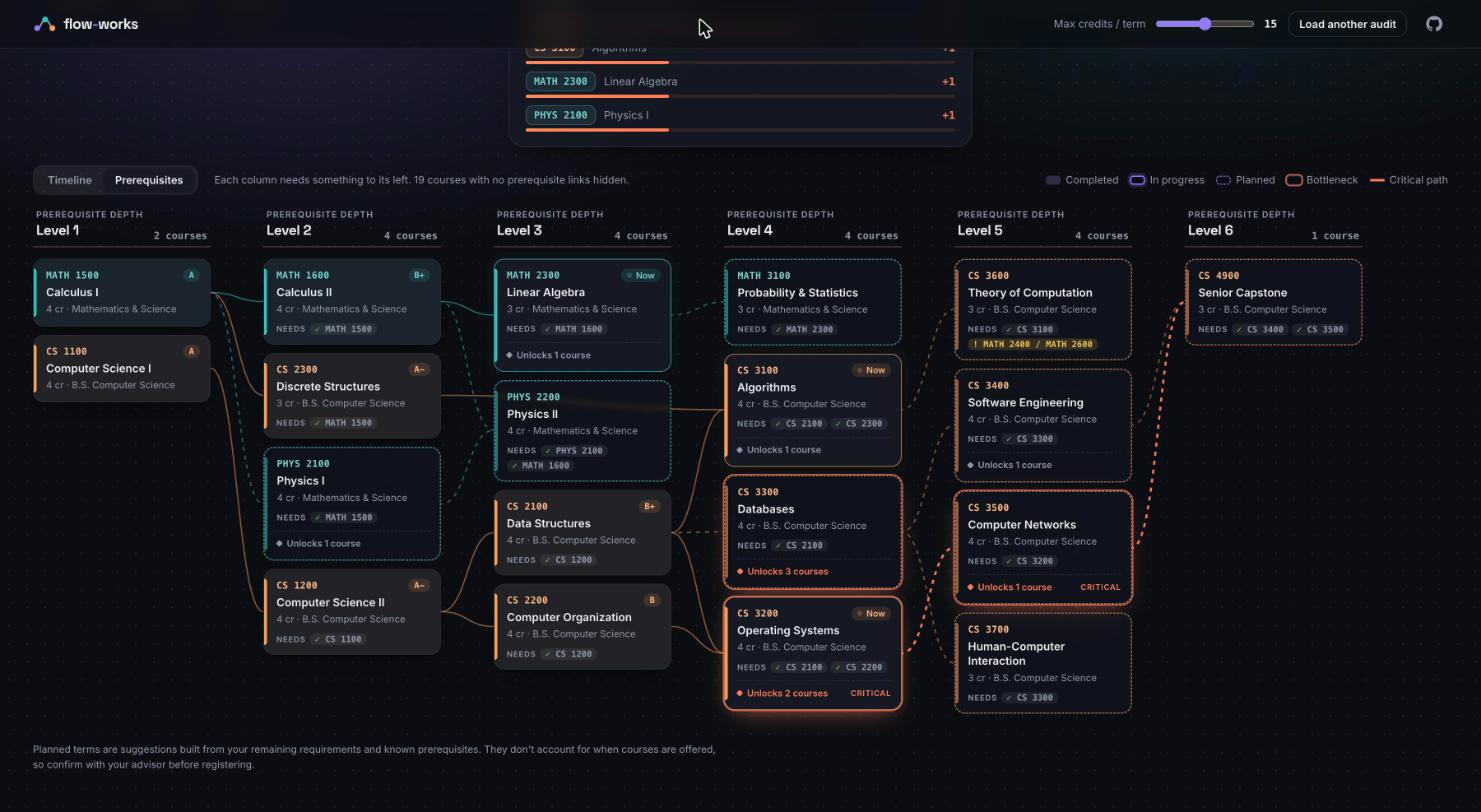
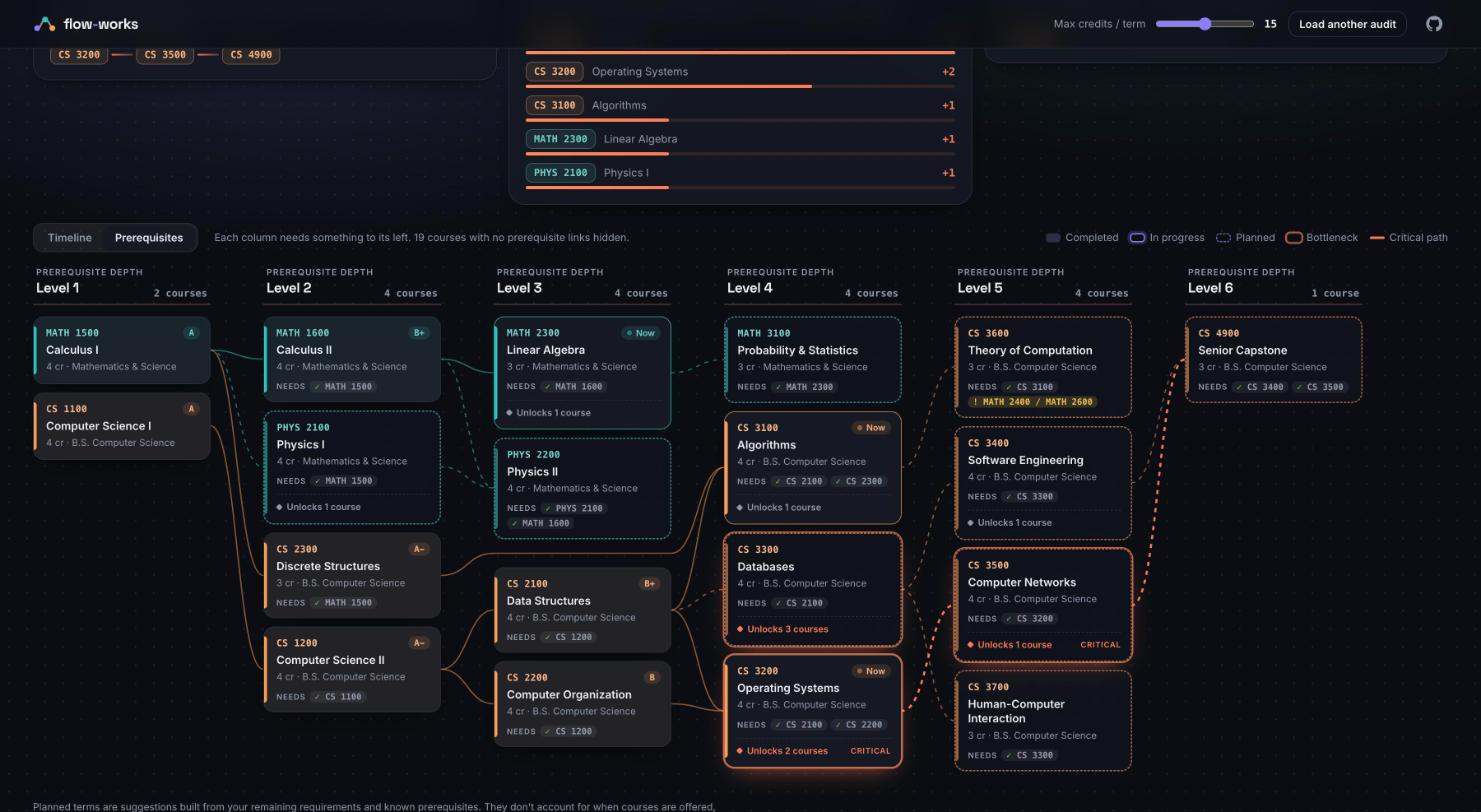
Route prerequisite lines through gaps instead of under cards
Long links get a via slot in every column they cross; curves bend only in
the gutters; cards and slots are barycenter-ordered to cut crossings.
Adds the prerequisite-graph view, bottleneck/critical-path insights,
per-card prerequisites, and critical-path-first planning.

diff --git a/app.js b/app.js
@@ -1,4 +1,4 @@
-import { parseAudit, columns, analyze, layers } from './model.js';
+import { parseAudit, columns, analyze, layers, route } from './model.js';
 
 const $ = s => document.querySelector(s);
 const reduce = matchMedia('(prefers-reduced-motion: reduce)').matches;
@@ -183,15 +183,23 @@ function board(first) {
   const cols = graph
     ? layers(A).map((items, i) => ({ label: `Level ${i + 1}`, kind: 'layer', items, note: plural(items.length, 'course') }))
     : terms.map(c => ({ ...c, note: `${c.credits} cr` }));
+  const R = route(cols.map(c => c.items), A.edges), feeds = new Set(A.edges.map(e => e.from));
   const crit = new Set(A.critical), critLinks = new Set(A.critical.slice(1).map((k, i) => A.critical[i] + '>' + k));
   const shown = cols.reduce((n, c) => n + c.items.length, 0), all = terms.reduce((n, c) => n + c.items.length, 0);
   $('#viewnote').textContent = graph
     ? `Each column needs something to its left. ${all - shown ? plural(all - shown, 'course') + ' with no prerequisite links hidden.' : ''}`
     : 'Hover a course to trace its prerequisites · click for details · drag to pan';
 
-  const colEls = cols.map((c, ci) => h('section', { class: `col ${c.kind}${c.items.length > 8 ? ' wide' : ''}` },
-    h('header', {}, h('span', { class: 'kind' }, KIND[c.kind]), h('h2', {}, c.label || '—'), h('span', { class: 'cr' }, c.note)),
-    ...c.items.map(it => card(it, ci, crit))));
+  const node = ci => x => (x.via ? h('i', { class: 'via', 'data-via': x.key }) : card(x, ci, crit));
+  const colEls = cols.map((c, ci) => {
+    const head = h('header', {}, h('span', { class: 'kind' }, KIND[c.kind]), h('h2', {}, c.label || '—'), h('span', { class: 'cr' }, c.note));
+    const entries = R.cols[ci];
+    // A long first column splits in two; courses that feed later ones go on the right so their lines cross no card.
+    if (ci === 0 && entries.length > 8) return h('section', { class: `col ${c.kind} wide` }, head,
+      h('div', { class: 'stack' }, entries.filter(x => !feeds.has(x.key)).map(node(ci))),
+      h('div', { class: 'stack' }, entries.filter(x => feeds.has(x.key)).map(node(ci))));
+    return h('section', { class: `col ${c.kind}` }, head, ...entries.map(node(ci)));
+  });
   const tail = [];
   if (!graph) {
     const cap = h('div', { class: 'cap', 'data-key': 'grad' }, h('div', { class: 'medal', 'aria-hidden': 'true' }), h('strong', {}, 'Graduate'), h('span', {}, grad));
@@ -200,11 +208,11 @@ function board(first) {
   } else if (!cols.length) tail.push(h('p', { class: 'empty' }, 'This audit came without prerequisite data, so there are no links to draw. Use the bookmarklet to include them.'));
   track.replaceChildren(svg('svg', { class: 'edges', 'aria-hidden': 'true' }), ...colEls, ...tail);
 
-  edges = A.edges.map(e => ({
-    ...e, group: A.byKey[e.to].group,
+  edges = A.edges.map((e, i) => ({
+    ...e, path: R.paths[i], group: A.byKey[e.to].group,
     cls: [A.byKey[e.to].status === 'planned' && 'planned', critLinks.has(e.from + '>' + e.to) && 'crit'].filter(Boolean).join(' '),
   }));
-  if (!graph) for (const it of terms.at(-1)?.items || []) edges.push({ from: it.key, to: 'grad', group: it.group, cls: 'tograd' });
+  if (!graph) for (const it of terms.at(-1)?.items || []) edges.push({ from: it.key, to: 'grad', path: [it.key, 'grad'], group: it.group, cls: 'tograd' });
 
   let last = 0;
   if (!reduce) for (const el of track.querySelectorAll('[data-key]')) {
@@ -233,14 +241,23 @@ function drawEdges(delay) {
   drawn = track.scrollWidth + 'x' + track.scrollHeight;
   lines.setAttribute('width', track.scrollWidth);
   lines.setAttribute('height', track.scrollHeight);
-  const el = k => track.querySelector(`[data-key="${CSS.escape(k)}"]`);
+  const el = k => track.querySelector(`[data-key="${CSS.escape(k)}"], [data-via="${CSS.escape(k)}"]`);
   lines.replaceChildren(...edges.map((e, i) => {
-    const a = el(e.from), b = el(e.to);
-    if (!a || !b) return '';
-    const ax = a.offsetLeft + a.offsetWidth, ay = a.offsetTop + a.offsetHeight / 2;
-    const bx = b.offsetLeft, by = b.offsetTop + (e.to === 'grad' ? 60 : b.offsetHeight / 2);
-    const dx = Math.max(28, (bx - ax) / 2);
-    const p = svg('path', { d: `M${ax},${ay} C${ax + dx},${ay} ${bx - dx},${by} ${bx},${by}`, class: e.cls, style: `--c:${color(e.group)}` });
+    const nodes = e.path.map(el);
+    if (nodes.some(n => !n)) return '';
+    // Curves bend only in the gutters between columns; inside a column the line runs straight through its via gap.
+    const [a, ...rest] = nodes, b = rest.pop();
+    let x = a.offsetLeft + a.offsetWidth, y = a.offsetTop + a.offsetHeight / 2, d = `M${x},${y}`;
+    const to = (x2, y2) => { const dx = (x2 - x) / 2; d += ` C${x + dx},${y} ${x2 - dx},${y2} ${x2},${y2}`; };
+    for (const v of rest) {
+      const vy = v.offsetTop + v.offsetHeight / 2;
+      to(v.offsetLeft, vy);
+      x = v.offsetLeft + v.offsetWidth;
+      y = vy;
+      d += ` L${x},${y}`;
+    }
+    to(b.offsetLeft, b.offsetTop + (e.to === 'grad' ? 60 : b.offsetHeight / 2));
+    const p = svg('path', { d, class: e.cls, style: `--c:${color(e.group)}` });
     p.dataset.from = e.from;
     p.dataset.to = e.to;
     if (delay != null && !reduce) {

diff --git a/model.js b/model.js
@@ -189,20 +189,38 @@ export function analyze(cols) {
   return { edges, needs, missing, info, necks, critical: critical.length > 1 ? critical : [], byKey };
 }
 
-// Layered layout for the prerequisite view: column = longest prereq chain above a course,
-// rows ordered by a few barycenter sweeps to cut line crossings. Courses with no links are left out.
-// ponytail: long edges aren't routed around cards (no dummy nodes); add them if crossings get unreadable.
+// Prerequisite view columns: column = longest prereq chain above a course. Courses with no links are left out.
 export function layers(a) {
-  const up = {}, down = {}, lv = {}, pos = {}, cols = [];
-  for (const e of a.edges) { (up[e.to] ||= []).push(e.from); (down[e.from] ||= []).push(e.to); }
+  const up = {}, lv = {}, cols = [], linked = new Set();
+  for (const e of a.edges) { (up[e.to] ||= []).push(e.from); linked.add(e.from).add(e.to); }
   const L = k => (lv[k] ??= up[k] ? 1 + Math.max(...up[k].map(L)) : 0);
-  for (const k of Object.keys(a.byKey)) if (up[k] || down[k]) (cols[L(k)] ||= []).push(k);
-  const place = c => c.forEach((k, i) => (pos[k] = i));
+  for (const k of Object.keys(a.byKey)) if (linked.has(k)) (cols[L(k)] ||= []).push(a.byKey[k]);
+  return cols;
+}
+
+// Edge routing: a link that spans several columns gets a "via" slot in every column it crosses, so lines
+// run through gaps between cards instead of under them. Cards and slots are then ordered by barycenter
+// sweeps to cut crossings. Returns per-column entries (items or { key, via: true }) and each edge's key path.
+export function route(cols, edges) {
+  const at = {}, out = cols.map(c => [...c]), up = {}, down = {}, pos = {};
+  cols.forEach((c, ci) => c.forEach(it => (at[it.key] = ci)));
+  const paths = edges.map((e, ei) => {
+    const path = [e.from];
+    for (let ci = at[e.from] + 1; ci < at[e.to]; ci++) {
+      const key = `via${ei}:${ci}`;
+      out[ci].push({ key, via: true });
+      path.push(key);
+    }
+    path.push(e.to);
+    for (let i = 1; i < path.length; i++) { (up[path[i]] ||= []).push(path[i - 1]); (down[path[i - 1]] ||= []).push(path[i]); }
+    return path;
+  });
+  const place = c => c.forEach((x, i) => (pos[x.key] = i));
   const bary = (k, nb) => (nb[k] ? nb[k].reduce((s, n) => s + pos[n], 0) / nb[k].length : pos[k]);
-  cols.forEach(place);
+  out.forEach(place);
   for (let pass = 0; pass < 6; pass++) {
     const nb = pass % 2 ? down : up;
-    for (const c of pass % 2 ? [...cols].reverse() : cols) { c.sort((x, y) => bary(x, nb) - bary(y, nb)); place(c); }
+    for (const c of pass % 2 ? [...out].reverse() : out) { c.sort((x, y) => bary(x.key, nb) - bary(y.key, nb)); place(c); }
   }
-  return cols.map(c => c.map(k => a.byKey[k]));
+  return { cols: out, paths };
 }

diff --git a/style.css b/style.css
@@ -200,6 +200,8 @@ code { font: .88em var(--mono); background: color-mix(in oklab, var(--ink) 7%, t
 
 .col { display: grid; grid-template-columns: 216px; gap: 10px; align-content: start; }
 .col.wide { grid-template-columns: repeat(2, 216px); }
+.stack { display: grid; gap: 10px; align-content: start; }
+.via { display: block; height: 14px; }
 .col > header { grid-column: 1 / -1; display: grid; grid-template-columns: 1fr auto; align-items: end; padding: 0 4px 6px; border-bottom: 1px solid var(--line); margin-bottom: 4px; }
 .col h2 { font-size: 17px; grid-column: 1; }
 .col .kind { grid-column: 1 / -1; font: 600 10.5px var(--sans); letter-spacing: .09em; text-transform: uppercase; color: var(--muted); }

diff --git a/README.md b/README.md
@@ -24,7 +24,7 @@ Both views share three insights:
 - **Bottlenecks:** unfinished courses ranked by how many later courses depend on them.
 - **Check with your advisor:** prerequisites that aren't on your record or in the plan.
 
-Hover a course to trace its whole chain. Click a course for details. Drag the max-credits slider and the plan re-flows with animation.
+Lines never pass under a card: a line that spans several columns gets a reserved gap in each column it crosses, and cards are re-ordered to cut crossings. Hover a course to trace its whole chain. Click a course for details. Drag the max-credits slider and the plan re-flows with animation.
 
 ## Use it
 
@@ -39,7 +39,7 @@ The bookmarklet reads the audit you're already viewing (same site, your own sess
 - Nothing is uploaded. The data travels in the `#fragment`, which browsers never send to servers, and the page itself is static files on GitHub Pages.
 - Your student ID and email are removed before the data leaves the Degree Works tab.
 - The audit stays in your browser's `localStorage` until you click **Load another audit**.
-- It's about 650 lines of plain JavaScript with no dependencies, so you can read all of it.
+- It's about 700 lines of plain JavaScript with no dependencies, so you can read all of it.
 
 ## Does it work with my school?
 
@@ -66,7 +66,7 @@ node test.mjs                 # parser, planner and prerequisite analysis checks
 
 | File | What it does |
 | --- | --- |
-| `model.js` | Pure functions: audit JSON → model, the planner, prerequisite analysis, graph layout |
+| `model.js` | Pure functions: audit JSON → model, the planner, prerequisite analysis, graph layout, edge routing |
 | `app.js` | Rendering, animation (FLIP and SVG line drawing), interactions |
 | `bookmarklet.js` | Runs on Degree Works; `app.js` turns it into the drag-to-bookmarks link |
 | `demo.json` | A fictional student in the real API shape |
